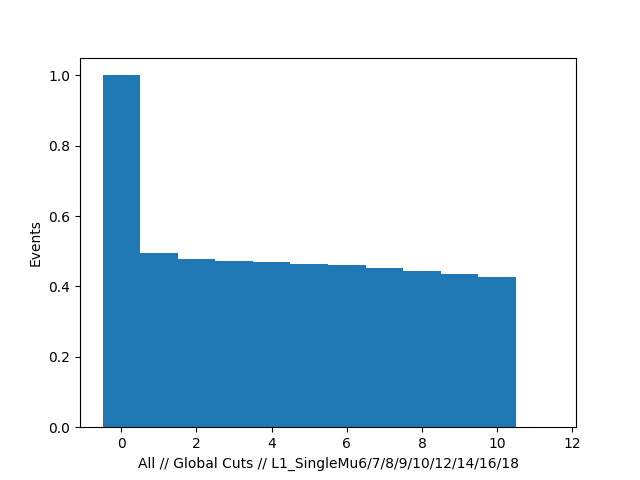
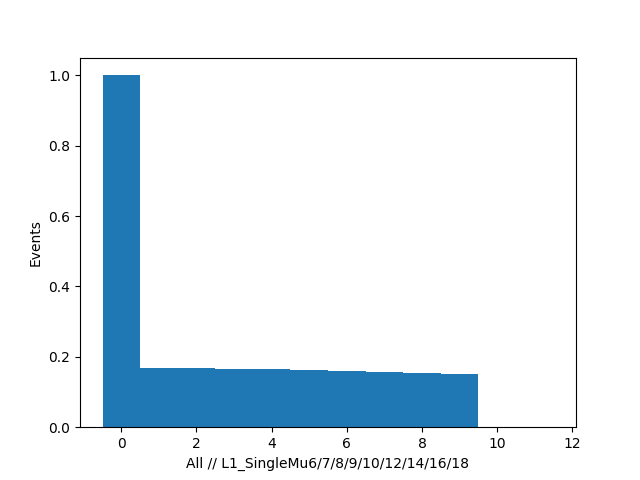
Removed global cuts from cut flow plots

Changed region(s): [[0.2188, 0.5, 0.8125, 0.9062], [0.2188, 0.9375, 0.8125, 1.0]]

diff --git a/n00dle.py b/n00dle.py
@@ -223,8 +223,8 @@ def trig(files):
         'sipplot':      Hist(20,(0,20),'Highest Muon SIP', 'Events', 'upplots/TrigSIPplot'),
         'hsipplot':     Hist(20,(0,20),'Highest Muon SIP', 'Events', 'upplots/TrigHSIPplot'),
         'ratiosipplot': Hist(20,(0,20),'Highest Muon SIP', 'HLT_Mu7_IP4 / Events with muons of sip > 5', 'upplots/TrigRatioSIPplot'),
-        'HLTcutflow':      Hist(12,(-0.5,11.5),'All // Global Cuts // HLT_Mu7/8/9/12_IP4/3,5,6/4,5,6/6','Events','upplots/cutflowHLT'),
-        'L1Tcutflow':      Hist(12,(-0.5,11.5),'All // Global Cuts // L1_SingleMu6/7/8/9/10/12/14/16/18','Events','upplots/cutflowL1T')
+        'HLTcutflow':      Hist(12,(-0.5,11.5),'All // HLT_Mu7/8/9/12_IP4/3,5,6/4,5,6/6','Events','upplots/cutflowHLT'),
+        'L1Tcutflow':      Hist(12,(-0.5,11.5),'All // L1_SingleMu6/7/8/9/10/12/14/16/18','Events','upplots/cutflowL1T')
     }
     ## Create an internal figure for pyplot to write to
     plt.figure(1)
@@ -255,6 +255,16 @@ def trig(files):
         plots['HLTcutflow'].fill((Muon.pt*0).max(axis=1).dropna())
         plots['L1Tcutflow'].fill((Muon.pt*0).max(axis=1).dropna())
  
+        ## Fill the rest of the bins
+        ct = 1
+        for i in HLT:
+            plots['HLTcutflow'].dfill(((HLT[i]==True).dropna())*ct)
+            ct = ct + 1
+        ct = 1
+        for i in L1T:
+            plots['L1Tcutflow'].dfill(((L1T[i]==True)*ct).dropna())
+            ct = ct + 1
+
         ##Perform global cuts
         Muon.cut(abs(Muon.eta)<1.5)
         Muon.cut(Muon.mediumId==True)
@@ -262,18 +272,9 @@ def trig(files):
 
         ##Fill bin 1 of cut flow lots
 
-        plots['HLTcutflow'].fill((Muon.pt/Muon.pt).max(axis=1).dropna())
-        plots['L1Tcutflow'].fill((Muon.pt/Muon.pt).max(axis=1).dropna())
+        #plots['HLTcutflow'].fill((Muon.pt/Muon.pt).max(axis=1).dropna())
+        #plots['L1Tcutflow'].fill((Muon.pt/Muon.pt).max(axis=1).dropna())
 
-        ## Fill the rest of the bins
-        ct = 2
-        for i in HLT:
-            plots['HLTcutflow'].dfill(((HLT[i]==True).dropna())*ct)
-            ct = ct + 1
-        ct = 2
-        for i in L1T:
-            plots['L1Tcutflow'].dfill(((L1T[i]==True)*ct).dropna())
-            ct = ct + 1
 
         ## Cut muons and trim triggers to the new size
         MuonP = Muon.cut(Muon.sip3d>5,split=True)
